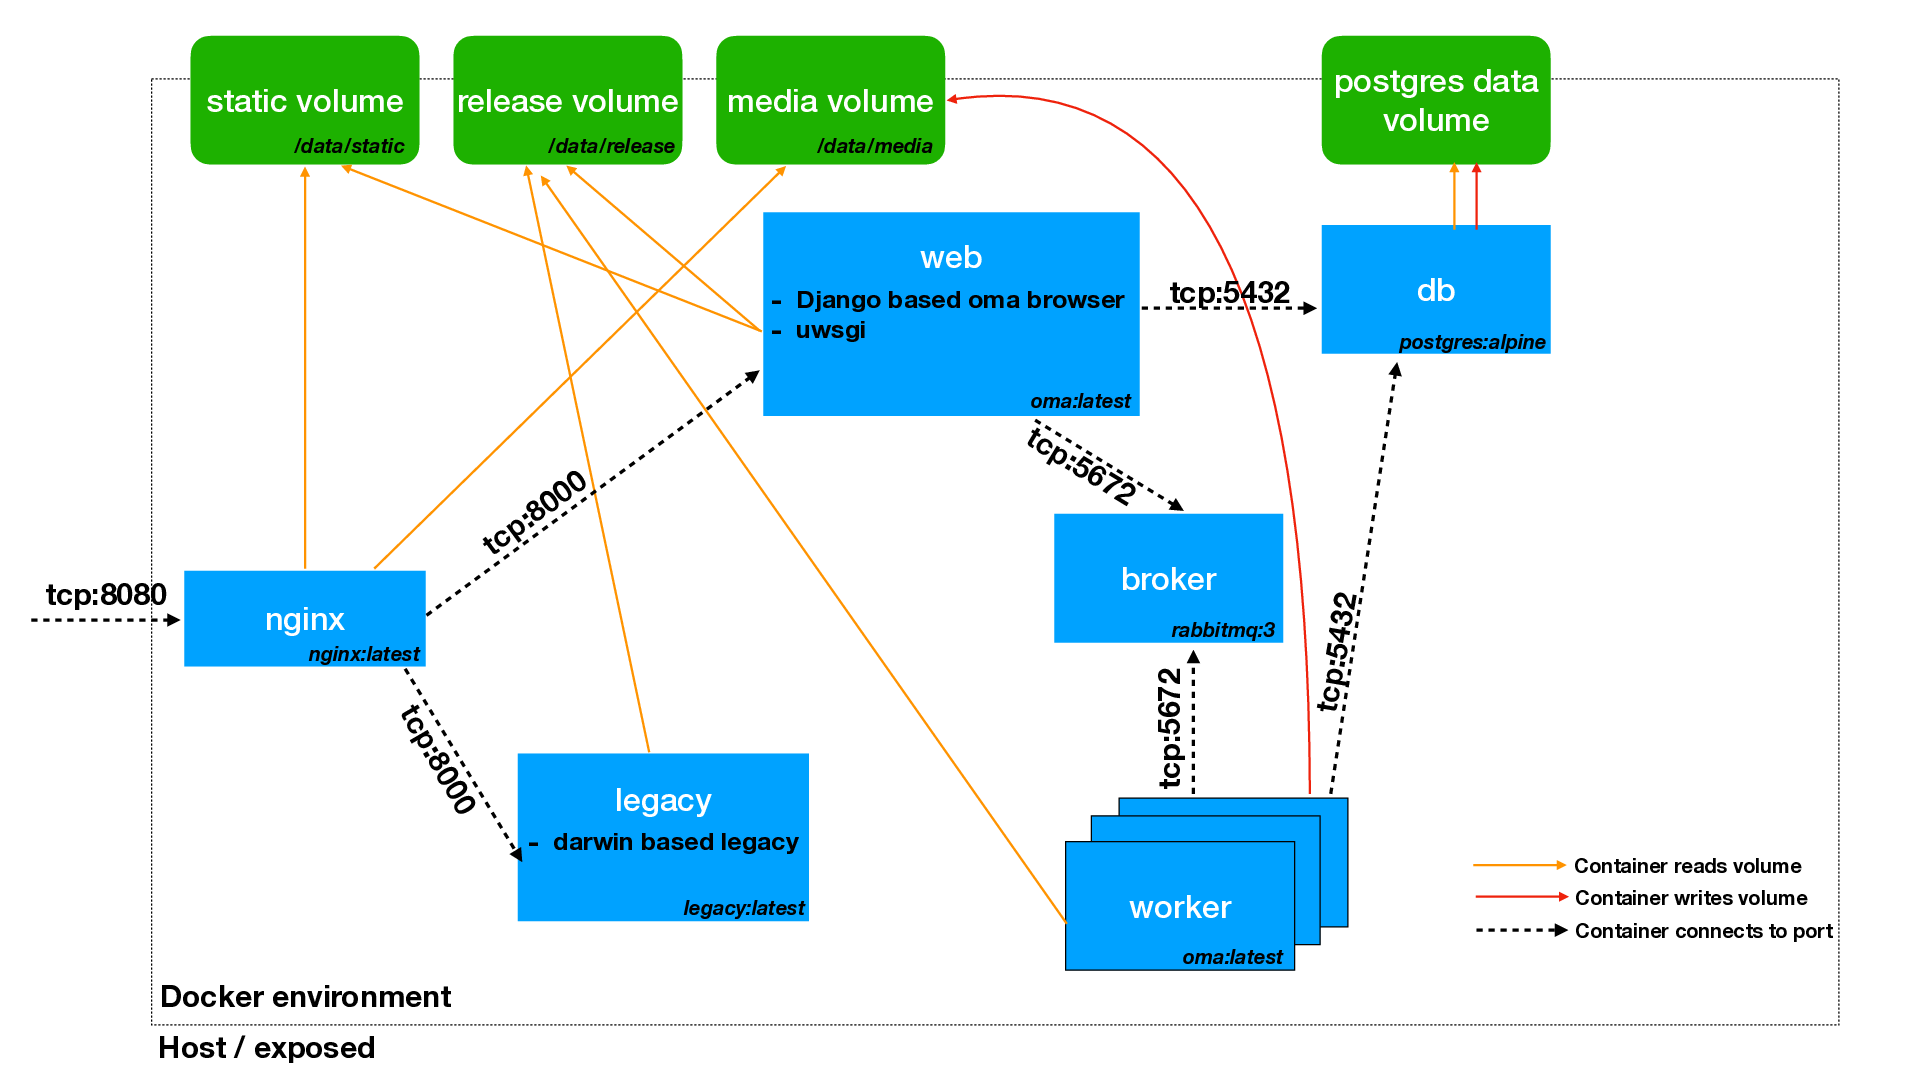
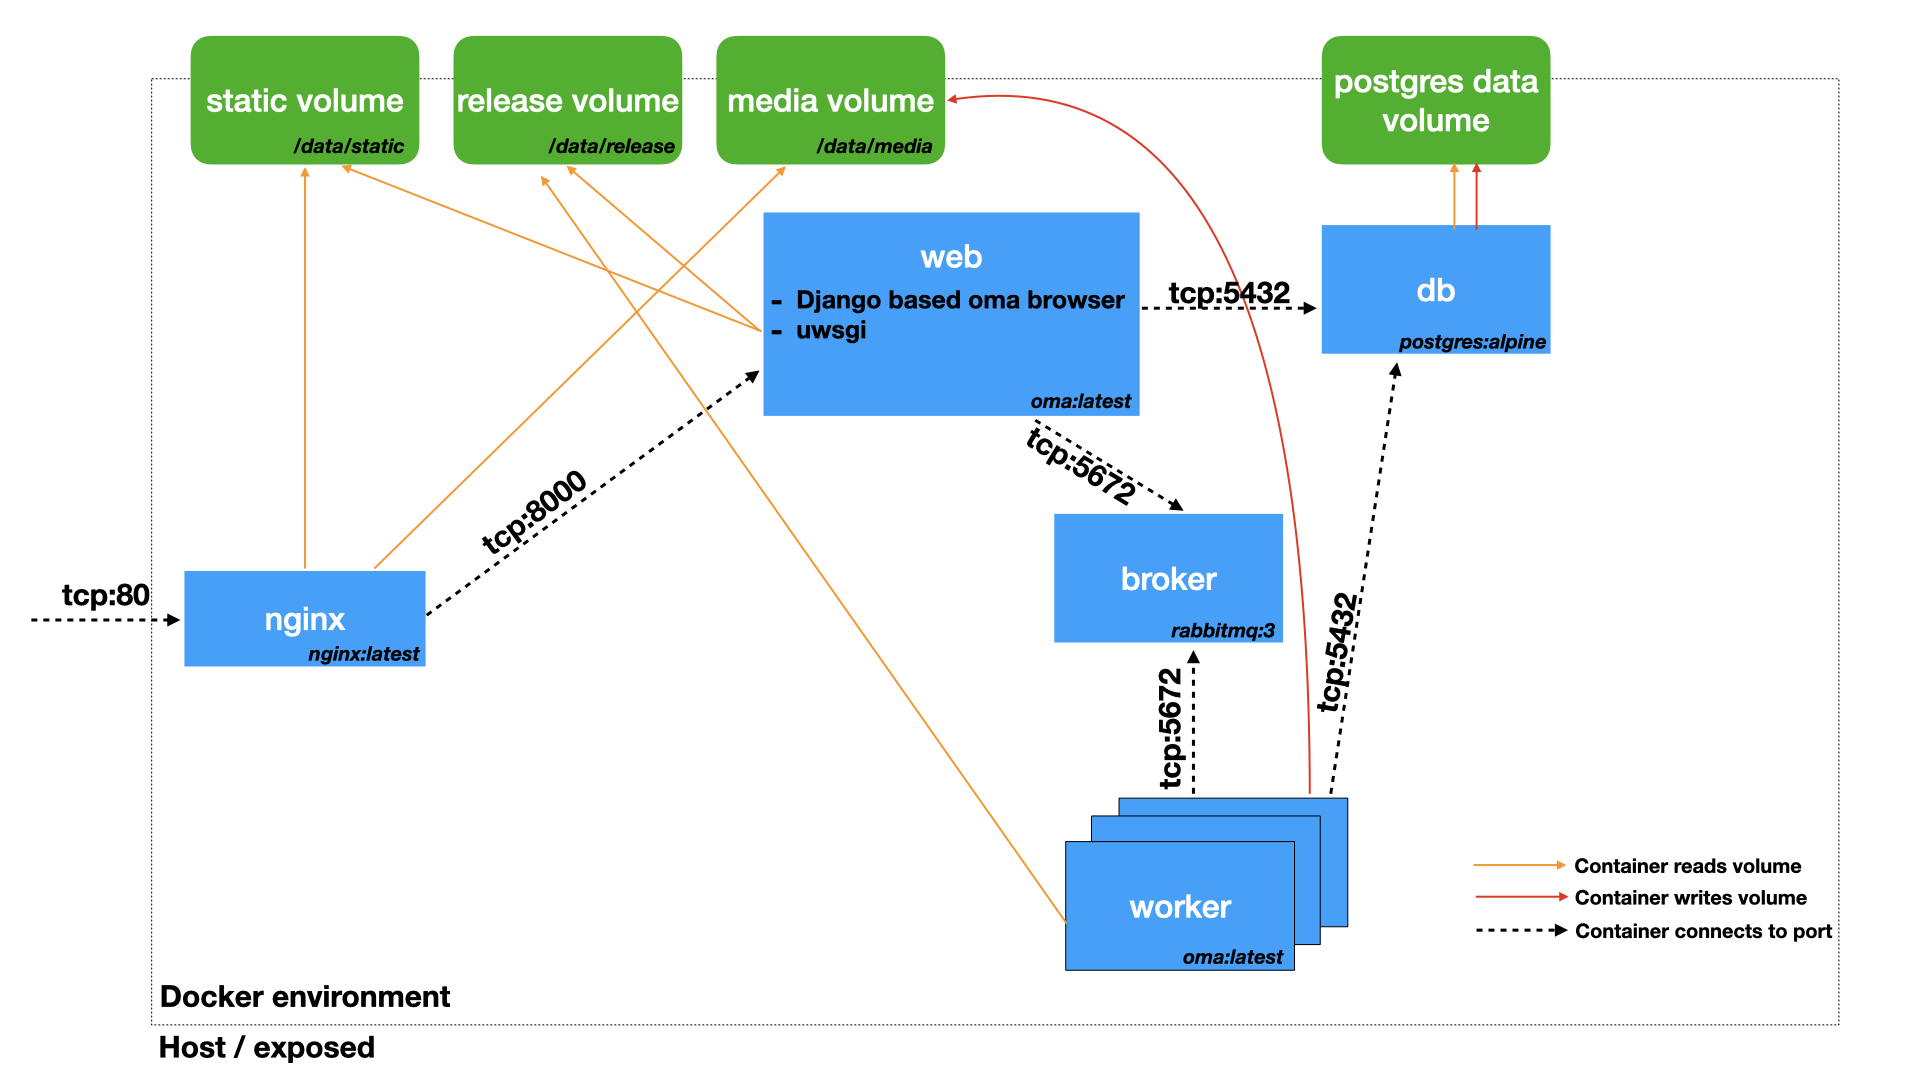
[UPDATE] docker compose setup and documentation

diff --git a/for_docker/Readme.md b/for_docker/Readme.md
@@ -3,14 +3,20 @@
 ### TL;DR
 
 - copy `env.template` to `env`
+- make a softlink from `.env` to `env`, i.e. `ln -s env .env`
 - adjust settings in `env` (OMA_INSTANCE, keys, ...)
 - adjust settings in `docker-compose.yml`:
   
   - bind mount release data?
   - bind mount current checkout?
-  
-- `build_container` to build containers for OMA browser
-- `docker-compose up` to start containers
+
+- copy `labgit.cnf.template' to `labgit.cnf`
+  - if not using git+ssh to clone repos, set your USER and PASSWORD data for git+https in `labgit.cnf`
+
+- `docker compose build --ssh default` to build containers for OMA browser (`--ssh default` only needed if git+ssh is used)
+- `docker compose up -d` to start containers
+- `docker compose logs -f` shows log of containers
+- access oma instance on http://localhost/oma/home
 
 
 ### Background
@@ -18,7 +24,7 @@
 The OMA Browser can be run via docker-compose as orchestration 
 tool for near production, testing and development purposes.
 
-Currently the setup has not yet been tested under heavy load, 
+Currently, the setup has not yet been tested under heavy load, 
 but it seems to work quite smoothly on various sized datasets.
 
 The following figure should give you a brief overview of the containers 
@@ -26,40 +32,41 @@ and volumes and how they interact:
 ![docker-setup](docker-setup.png "Overview of container setup") 
  
 
-In our setup of the containers, we make use of the 
-DOCKER_BUILDKIT extension, especially the `--ssh default` feature 
-to access the lab's git repo server. Currently (May 2020) this feature is 
-not yet supported by docker-compose directly. Because of this, the 
-docker images have to be converted with an extra script named `build_container`.
-
 ### Settings in `env` file
 
 First, you need to copy the `env.template` file into `env`. The template 
 version does not contain any values about passwords and api keys which
-you might need to set.
+you might need to set. Also, you need to create a soft-link .env -> env 
+```bash
+ln -s env .env
+```
 
 The `env` file contains most settings relevant to build and run the 
 containers. The paths variables in the beginning are the mount points 
 _inside_ the containers and can in most situations be left as they 
 are defined. 
 
-The values for `OMA_INSTANCE`, and `PRODUCTION_TYPE` can be modified
-as needed. The OMA_INSTANCE has the main thing to change between
-different setups/instances with different features. They load different
-django settings.
+Here are the most relevant variables you need to specify:
 
-The settings for PYOMABROWSER_CODEBASE and PYOMABROWSER_GITTAG variables 
-should be adapted depending on whether from the current source checkout 
-or directly from the git-repo at a certain tag should be used to build 
-the oma docker image.
+- __RELEASE_PATH_HOST__: Path on the host machine where the oma browser data is located, e.g. `/local/data/OMA/All.Jul2024`. This location should have at least the two subfolders `data` and `downloads`.'  
+
+- __OMA_INSTANCE__: The OMA_INSTANCE is the main setting to change between different setups/instances with different features. They load different django settings. The default is `full`.
+- __DEPLOYMENT_TYPE__:   Either `production` or `development`. if set to development, the provides additional debugging information.
+
+A bit less common but still relevant settings are:
+
+- __ALLALL_PATH_HOST__: Path where the AllAll files are located. This is only relevant for the Export Standalone functionality.
+
+- __DJANGO_SETTINGS_MODULE__: settings module to be used. can be one of `pybrowser_dev.settings.prod`, `pybrowser_dev.settings.testing`
+
 
 ### Settings in `docker-compose.yml`
 
 In the docker-compose file, you should mainly edit the mount method of 
-the omabrowser data. By default it assumes a 
-[docker volume](https://docs.docker.com/storage/volumes/), but also 
-a **bind mount** of a host directory into the container is possible (but 
-discouraged for production).
+the omabrowser data. By default, we now recommend using bind mounts, but 
+you can also change things to use [docker volume](https://docs.docker.com/storage/volumes/). See section below 
+on [copying data into a docker volume](#copying-data-into-the-release_volume)
+for how this needs to be done.
 
 Last but not least, by uncommenting the line 
 
@@ -70,24 +77,34 @@ repo checkout from your host to the docker containers which allows
 to transparently refresh on code changes. Note however that if 
 static files change, you have to restart the docker-compose instances.
 
+
+# Settings in `labgit.cnf`
+Building the containers requires cloning GIT repositories from the lab.dessimoz.org 
+host. Access to this host can be gained either via git+ssh or git+https. 
+Please copy the `labgit.cnf.template` file to `labgit.cnf` and either leave
+the definition of LABGIT variable unchanged (i.e. `ssh://gitolite@lab.dessimoz.org:2222`)
+or uncomment the second variant `export LABGIT="https://USER:PASSWORD@git.lab.dessimoz.org/git"` 
+and specify your USER and PASSWORD in the url.
+
+
 ### Building the images
 
 To build the images you should only need to run 
-`build_container` from the for_docker/ directory on your host.
-Note that this is a simple python script that requires yaml to 
-be installed. You might need to install it into a virtualenv or 
-install it systemwide with `pip install pyaml`.
+`docker compose build` from the for_docker/ directory on your host. If you use 
+git+ssh you need to add `--ssh default` to the command.  
+
+
 
 ### Starting services
 You should then be able to start the services with 
-`docker-compose up`. This will run things in the foreground, and 
+`docker compose up`. This will run things in the foreground, and 
 you can check the logs of the different services. The first time 
 you do this using a docker volume for the oma browser data, you
 will see error messages the database cannot be opened. This 
 means you haven't yet copied the data into the volume. 
 (See next point)
-You can also start the containers in the background with `docker-compose up -d` 
-and stop them with `docker-compose down`. 
+You can also start the containers in the background with `docker compose up -d` 
+and stop them with `docker compose down`. 
 
 ### Copying data into the release_volume
 In order to copy the data of a specific release into a 
@@ -109,3 +126,8 @@ You can do that with
 ```shell script
 docker-compose down --volume
 ```
+
+
+### Changes
+- discontinued the build_container script - please use now directly `docker compose build`.
+- We recently dropped the legacy container from the setup, as all functionality has been ported to the Django webserver.
